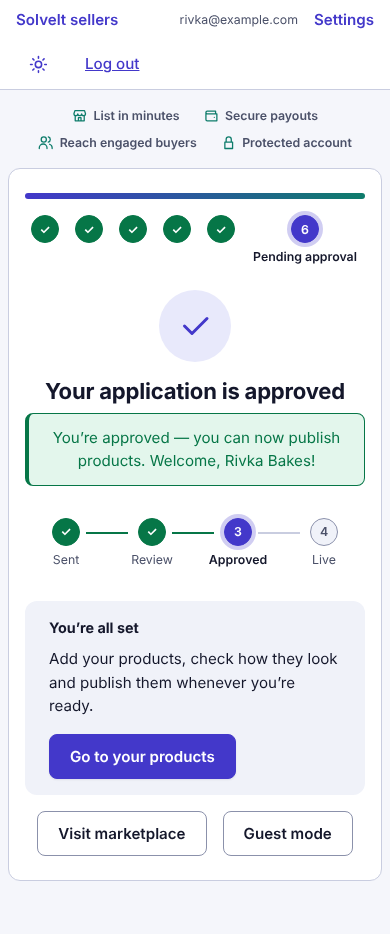
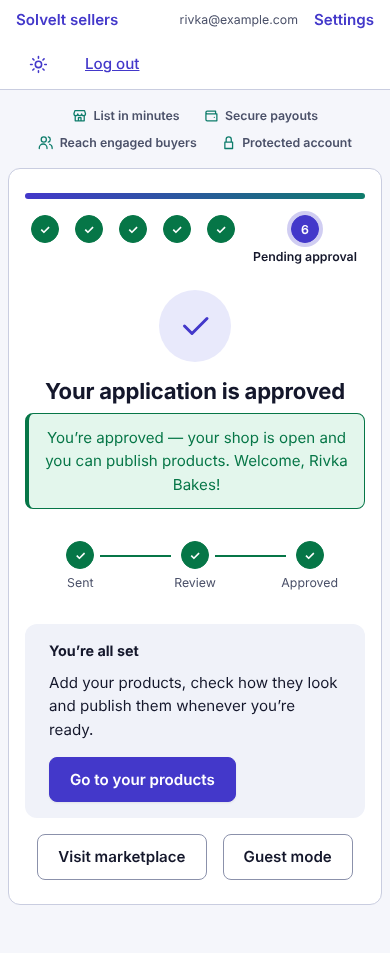
E2E: tracker has 3 stages now (Live removed); refresh screenshots affected by the pending/brand-panel changes
Claude-Session: https://claude.ai/code/session_018hZb8p3U4e1ZXzoHRqf6yf

diff --git a/e2e/portal.spec.ts b/e2e/portal.spec.ts
@@ -64,7 +64,7 @@ test('signup wizard through the pending screen', async ({ page, request }) => {
   await expect(page.getByRole('heading', { name: 'Your application is pending' })).toBeVisible()
   await expectNoSeriousA11y(page)
   await expect(page.getByText(/Management will reach out/)).toBeVisible()
-  await expect(page.getByRole('list', { name: 'Application status' }).getByRole('listitem')).toHaveCount(4)
+  await expect(page.getByRole('list', { name: 'Application status' }).getByRole('listitem')).toHaveCount(3)
   await expect(page.getByRole('link', { name: 'Visit marketplace' })).toBeVisible()
   await page.getByRole('link', { name: 'Guest mode' }).click()
   await expect(page.getByRole('heading', { name: 'Guest mode' })).toBeVisible()
